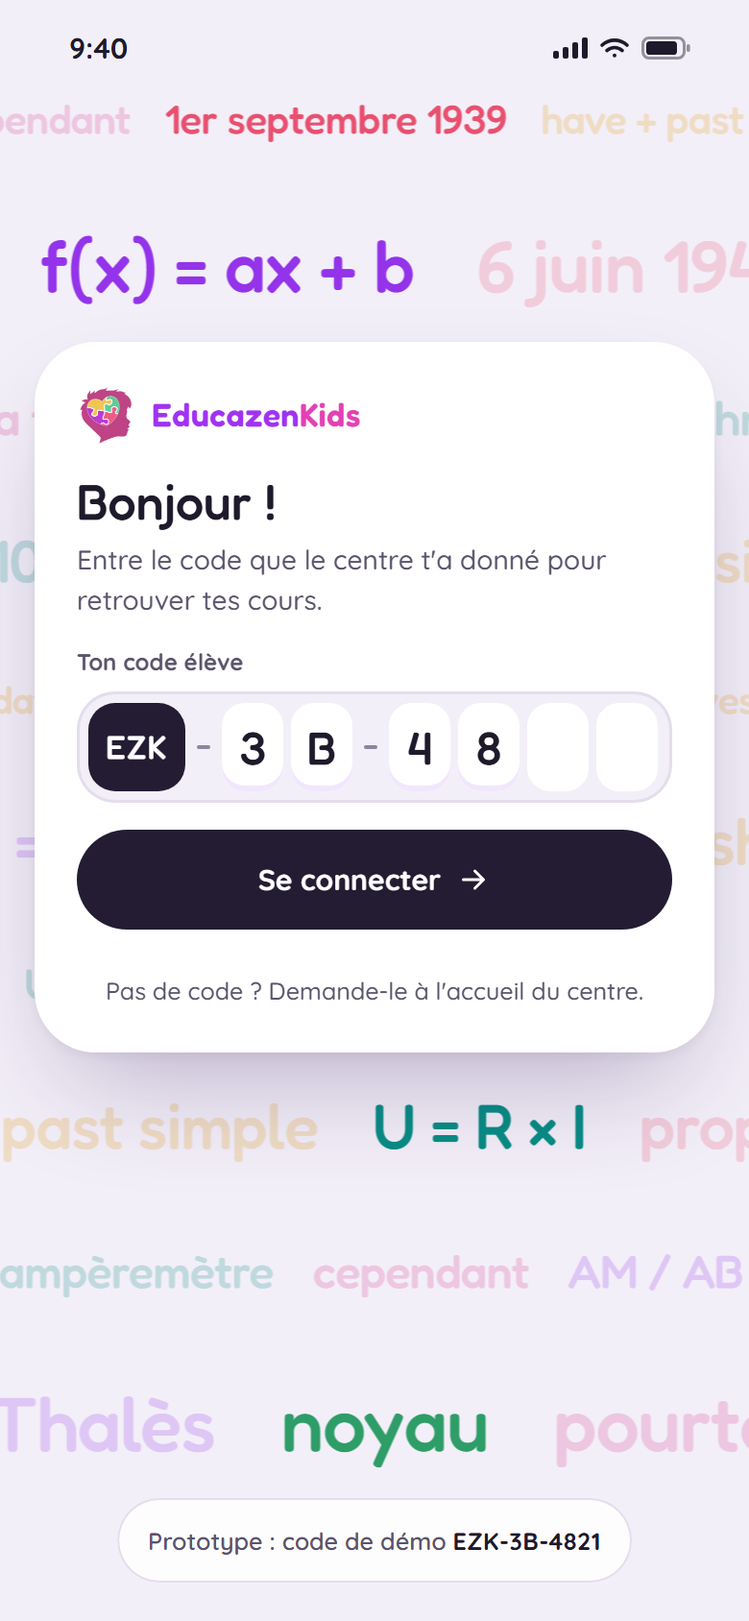
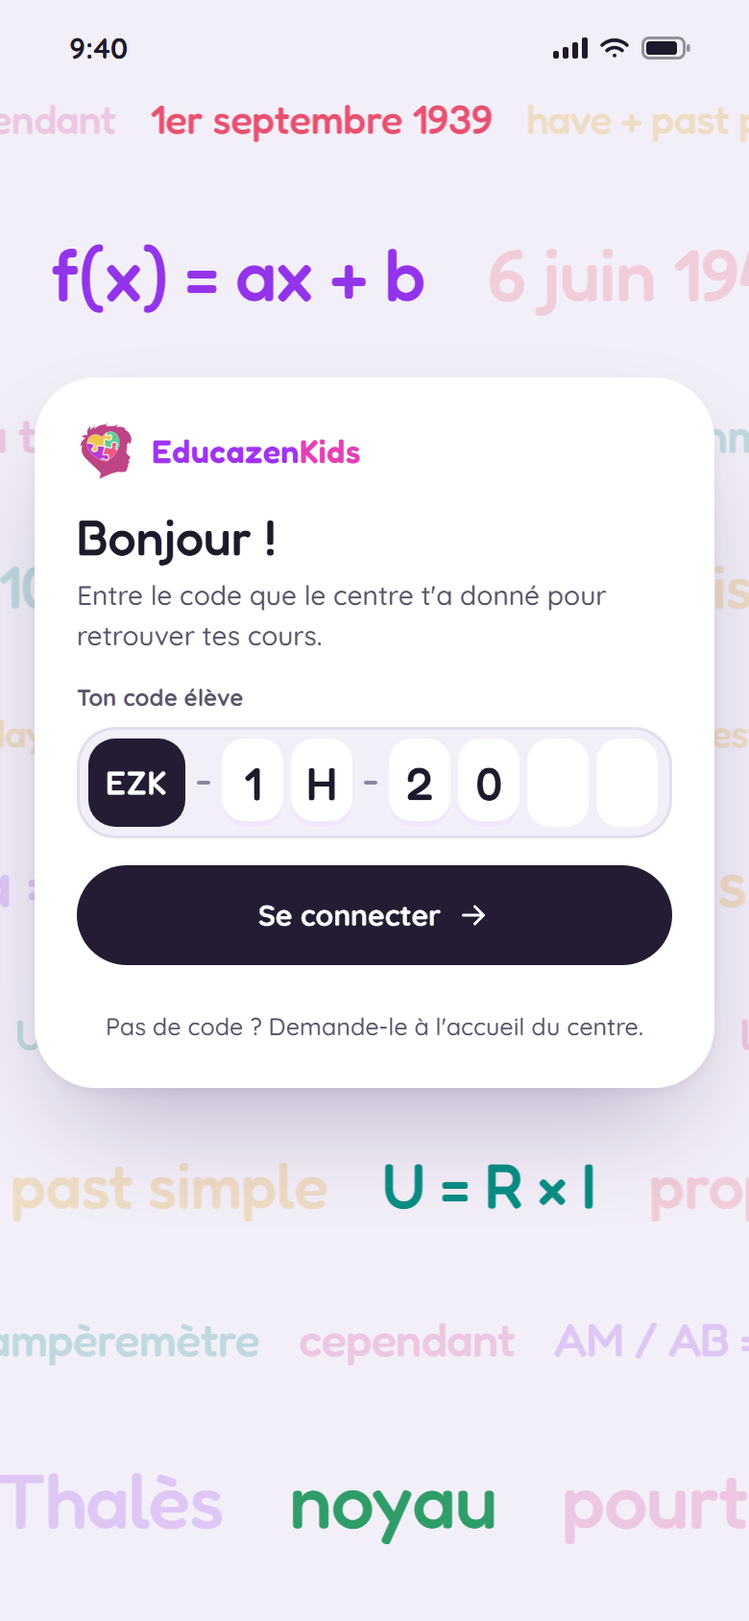
Hide the demo student code and change it
- Login: the demo-code button is gone and the guide no longer shows the code; the code changed (it lives in CODES in prototype/src/data.js)
- The card re-centred between two rows of the formula wall; the format error no longer quotes a real code
- Tests and docs updated; the old code is now refused

diff --git a/prototype/educazenkids-college.html b/prototype/educazenkids-college.html
@@ -454,7 +454,7 @@ a.btn { color: var(--ink); text-decoration: none; }
 
 /* ---------- connexion: le mur des cours ---------- */
 .login { position: absolute; inset: 0; background: var(--app); overflow: hidden; }
-.wall { position: absolute; inset: 0; display: grid; align-content: space-between; padding: 50px 0 80px; pointer-events: none; user-select: none; }
+.wall { position: absolute; inset: 0; display: grid; align-content: space-between; padding: 50px 0 40px; pointer-events: none; user-select: none; }
 .wrow { overflow: hidden; white-space: nowrap; font: 500 var(--fs)/1.15 var(--font-display); letter-spacing: -0.01em; }
 .wtrack { display: inline-flex; animation: drift var(--dur) linear infinite; }
 .wrow.rev .wtrack { animation-direction: reverse; }
@@ -464,7 +464,7 @@ a.btn { color: var(--ink); text-decoration: none; }
 .wall.ok .w { color: var(--c); transition-delay: calc(var(--i) * 9ms); }
 @keyframes lit { 0% { transform: scale(0.94); } 55% { transform: scale(1.06); } 100% { transform: none; } }
 .login-card {
-  position: absolute; left: 18px; right: 18px; top: 21.1%; z-index: 2;
+  position: absolute; left: 18px; right: 18px; top: 23.3%; z-index: 2;
   display: grid; gap: 14px; padding: 22px 22px 14px; border-radius: 32px; background: var(--surface);
   box-shadow: 0 2px 6px rgba(36, 28, 51, 0.05), 0 28px 60px -18px rgba(54, 27, 94, 0.32);
 }
@@ -493,9 +493,6 @@ a.btn { color: var(--ink); text-decoration: none; }
 .login-card.done .avatar { width: 64px; height: 64px; font-size: 22px; }
 .login-card.done p { margin: 0; color: var(--ink-2); }
 .login-card.done .saved { margin-top: 6px; }
-.login-demo { position: absolute; left: 50%; bottom: 20px; transform: translateX(-50%); z-index: 2; white-space: nowrap; min-height: 44px; padding: 0 16px; border-radius: 999px; background: rgba(255, 255, 255, 0.86); box-shadow: inset 0 0 0 1px var(--line); font-size: 12.5px; font-weight: 600; color: var(--ink-2); }
-.login-demo b { color: var(--ink); font-weight: 700; letter-spacing: 0.02em; }
-.login-demo:hover { box-shadow: inset 0 0 0 1.5px var(--brand); }
 
 /* ---------- exercises ---------- */
 .fig { margin: 16px 0 0; padding: 14px 14px 10px; border-radius: 22px; background: var(--surface); box-shadow: inset 0 0 0 1.5px var(--cs); display: grid; gap: 8px; }
@@ -583,7 +580,7 @@ textarea.xin[readonly] { min-height: 0; }
     <p>Prototype cliquable pour les 14 à 16 ans : cours en vidéo, résumés, quiz, exercices, contrôle continu, notifications et emploi du temps. Les données sont des exemples. Ta progression reste enregistrée dans ce navigateur.</p>
     <span class="label">À essayer</span>
     <ol>
-      <li>Connecte-toi avec le code <b>EZK-3B-4821</b> : chaque caractère allume une formule du mur.</li>
+      <li>Connecte-toi avec ton <b>code élève</b> : chaque caractère allume une formule du mur.</li>
       <li>Ouvre <b>Fonctions affines</b> et lance la vidéo en vitesse <b>Démo ×10</b>.</li>
       <li>À <b>50 % vus</b>, le bouton de progression débloque le <b>quiz</b>. Les passages sautés ne comptent pas.</li>
       <li>Termine le quiz : la <b>progression est enregistrée</b>.</li>
@@ -1076,7 +1073,7 @@ EXERCISES.forEach(x => { if (x.step) LMAP[x.lesson].exo = x.id; });
 
 /* Student codes the centre hands out: EZK- + class + 4 digits. One sample student in this prototype. */
 const CODE_PREFIX = 'EZK';
-const CODES = { '3B4821': STUDENT };
+const CODES = { '1H2002': STUDENT };
 
 const WEEK = [
   { date: '2026-10-12', dw: 'Lun', d: 12, long: 'Lundi 12 octobre' },
@@ -1367,7 +1364,7 @@ function wallHTML(lit, all) {
 const LOGIN_HELP = '<p class="login-help">Pas de code ? Demande-le à l\'accueil du centre.</p>';
 const LOGIN_ERR = {
   short: 'Ton code a 6 caractères après EZK : ta classe, puis 4 chiffres.',
-  format: "Ce code n'a pas le bon format. Il ressemble à EZK-3B-4821.",
+  format: "Ce code n'a pas le bon format : ta classe (un chiffre, une lettre), puis 4 chiffres.",
   unknown: "Ce code ne correspond à aucun élève. Vérifie-le, ou demande ton code à l'accueil.",
 };
 const cleanCode = s => { let v = String(s).toUpperCase().replace(/[^A-Z0-9]/g, ''); if (v.startsWith(CODE_PREFIX) && v.length > 6) v = v.slice(CODE_PREFIX.length); return v.slice(0, 6); };
@@ -1390,8 +1387,7 @@ SCREENS.splash = c => {
         <button class="btn btn-dark block" type="submit">Se connecter ${ic('arrow', 18)}</button>
         <div class="login-slot" id="login-slot">${lg.err ? `<p class="login-msg" role="alert">${esc(LOGIN_ERR[lg.err])}</p>` : LOGIN_HELP}</div>
       </form>`;
-  return `<div class="login">${wallHTML(lg.err ? 0 : lg.v.length, !!who)}${card}
-    ${who ? '' : `<button class="login-demo" data-act="loginDemo">Prototype : code de démo <b>EZK-3B-4821</b></button>`}</div>`;
+  return `<div class="login">${wallHTML(lg.err ? 0 : lg.v.length, !!who)}${card}</div>`;
 };
 function paintLogin() {
   const v = S.login.v;
@@ -1404,10 +1400,8 @@ function paintLogin() {
     const inp = $('#login-code'); if (inp) inp.removeAttribute('aria-invalid');
   }
 }
-let loginTimer = 0;
 function loginSubmit() {
   const v = S.login.v;
-  clearInterval(loginTimer);
   S.login.err = v.length < 6 ? 'short' : !/^[0-9][A-Z][0-9]{4}$/.test(v) ? 'format' : !CODES[v] ? 'unknown' : '';
   if (S.login.err) { S.focus = 'login-code'; render(); return; }
   S.login.ok = true;
@@ -2475,19 +2469,6 @@ const ACTIONS = {
   resetDemo: () => { pauseVideo(); timerStop(); stopExamTimer(); P = seed(); save(); V.id = null; V.w = null; V.rate = 1; T.mode = 'focus'; T.total = T.left = 1500; T.cycle = 1; const sc = S.screen === 'splash' ? 'home' : S.screen; S = S0(); S.screen = sc === 'quiz' || sc === 'lesson' || sc === 'exo' ? 'home' : sc; render(true); toast('Démo réinitialisée.'); },
   copy: d => { const done = () => toast('Numéro copié.'); try { navigator.clipboard.writeText(d.text).then(done, () => toast('Sélectionne le numéro pour le copier.')); } catch (e) { toast('Sélectionne le numéro pour le copier.'); } },
   gallery: d => showGallery(d.on === '1'),
-  loginDemo: () => {
-    clearInterval(loginTimer);
-    const code = Object.keys(CODES)[0];
-    const still = P.settings.calm || (typeof matchMedia === 'function' && matchMedia('(prefers-reduced-motion: reduce)').matches);
-    if (still || !$('#login-code')) { S.login.v = code; loginSubmit(); return; }
-    let i = 0;
-    loginTimer = setInterval(() => {
-      i++; S.login.v = code.slice(0, i);
-      const inp = $('#login-code'); if (inp) inp.value = S.login.v;
-      paintLogin();
-      if (i >= code.length) { clearInterval(loginTimer); setTimeout(loginSubmit, 380); }
-    }, 170);
-  },
   logout: () => { pauseVideo(); timerStop(); stopExamTimer(); P.signedIn = false; save(); S = S0(); render(true); toast('Tu es déconnecté. Ton code te permet de revenir.'); },
   exoStart: d => startExo(d.id),
   exoRetry: () => startExo(S.exo.id, true),
@@ -2579,7 +2560,7 @@ document.addEventListener('scroll', e => {
 }, true);
 document.addEventListener('input', e => {
   if (e.target.id === 'fiche-q') { S.ficheQ = e.target.value; const l = $('#fiche-list'); if (l) l.innerHTML = ficheList(S.ficheQ); }
-  if (e.target.id === 'login-code') { clearInterval(loginTimer); const v = cleanCode(e.target.value); if (e.target.value !== v) e.target.value = v; S.login.v = v; paintLogin(); }
+  if (e.target.id === 'login-code') { const v = cleanCode(e.target.value); if (e.target.value !== v) e.target.value = v; S.login.v = v; paintLogin(); }
   if (e.target.dataset && e.target.dataset.exq != null && S.exo) S.exo.ans[+e.target.dataset.exq].v = e.target.value;
 });
 
@@ -2606,9 +2587,9 @@ const GALLERY = [
   ['Minuteur', { screen: 'timer' }],
   ['Paramètres', { screen: 'settings' }],
   ['Contacter le centre', { screen: 'contact' }],
-  ['Connexion · saisie du code', { screen: 'splash', login: { v: '3B48', err: '', ok: false } }],
-  ['Connexion · code inconnu', { screen: 'splash', login: { v: '3B4812', err: 'unknown', ok: false } }],
-  ['Connexion · code reconnu', { screen: 'splash', login: { v: '3B4821', err: '', ok: true } }],
+  ['Connexion · saisie du code', { screen: 'splash', login: { v: '1H20', err: '', ok: false } }],
+  ['Connexion · code inconnu', { screen: 'splash', login: { v: '1H2020', err: 'unknown', ok: false } }],
+  ['Connexion · code reconnu', { screen: 'splash', login: { v: '1H2002', err: '', ok: true } }],
   ['Leçon · onglet Exercice', { screen: 'lesson', lessonId: 'affine', tab: 'exo' }],
   ['Exercice avec image', { screen: 'exo', exo: { id: 'ex-affine', done: false, ans: [{ v: '−1', st: 'ok', tries: 0 }, { v: '4', st: 'retry', tries: 1 }, { v: '', st: '', tries: 0 }] } }],
   ['Exercice · corrigé à comparer', { screen: 'exo', exo: { id: 'ex-produit-nul', done: false, ans: [{ v: 'x = −2 ou x = 2', st: 'shown', tries: 0 }, { v: '', st: '', tries: 0 }] } }],

diff --git a/prototype/src/app.js b/prototype/src/app.js
@@ -208,7 +208,7 @@ function wallHTML(lit, all) {
 const LOGIN_HELP = '<p class="login-help">Pas de code ? Demande-le à l\'accueil du centre.</p>';
 const LOGIN_ERR = {
   short: 'Ton code a 6 caractères après EZK : ta classe, puis 4 chiffres.',
-  format: "Ce code n'a pas le bon format. Il ressemble à EZK-3B-4821.",
+  format: "Ce code n'a pas le bon format : ta classe (un chiffre, une lettre), puis 4 chiffres.",
   unknown: "Ce code ne correspond à aucun élève. Vérifie-le, ou demande ton code à l'accueil.",
 };
 const cleanCode = s => { let v = String(s).toUpperCase().replace(/[^A-Z0-9]/g, ''); if (v.startsWith(CODE_PREFIX) && v.length > 6) v = v.slice(CODE_PREFIX.length); return v.slice(0, 6); };
@@ -231,8 +231,7 @@ SCREENS.splash = c => {
         <button class="btn btn-dark block" type="submit">Se connecter ${ic('arrow', 18)}</button>
         <div class="login-slot" id="login-slot">${lg.err ? `<p class="login-msg" role="alert">${esc(LOGIN_ERR[lg.err])}</p>` : LOGIN_HELP}</div>
       </form>`;
-  return `<div class="login">${wallHTML(lg.err ? 0 : lg.v.length, !!who)}${card}
-    ${who ? '' : `<button class="login-demo" data-act="loginDemo">Prototype : code de démo <b>EZK-3B-4821</b></button>`}</div>`;
+  return `<div class="login">${wallHTML(lg.err ? 0 : lg.v.length, !!who)}${card}</div>`;
 };
 function paintLogin() {
   const v = S.login.v;
@@ -245,10 +244,8 @@ function paintLogin() {
     const inp = $('#login-code'); if (inp) inp.removeAttribute('aria-invalid');
   }
 }
-let loginTimer = 0;
 function loginSubmit() {
   const v = S.login.v;
-  clearInterval(loginTimer);
   S.login.err = v.length < 6 ? 'short' : !/^[0-9][A-Z][0-9]{4}$/.test(v) ? 'format' : !CODES[v] ? 'unknown' : '';
   if (S.login.err) { S.focus = 'login-code'; render(); return; }
   S.login.ok = true;
@@ -1316,19 +1313,6 @@ const ACTIONS = {
   resetDemo: () => { pauseVideo(); timerStop(); stopExamTimer(); P = seed(); save(); V.id = null; V.w = null; V.rate = 1; T.mode = 'focus'; T.total = T.left = 1500; T.cycle = 1; const sc = S.screen === 'splash' ? 'home' : S.screen; S = S0(); S.screen = sc === 'quiz' || sc === 'lesson' || sc === 'exo' ? 'home' : sc; render(true); toast('Démo réinitialisée.'); },
   copy: d => { const done = () => toast('Numéro copié.'); try { navigator.clipboard.writeText(d.text).then(done, () => toast('Sélectionne le numéro pour le copier.')); } catch (e) { toast('Sélectionne le numéro pour le copier.'); } },
   gallery: d => showGallery(d.on === '1'),
-  loginDemo: () => {
-    clearInterval(loginTimer);
-    const code = Object.keys(CODES)[0];
-    const still = P.settings.calm || (typeof matchMedia === 'function' && matchMedia('(prefers-reduced-motion: reduce)').matches);
-    if (still || !$('#login-code')) { S.login.v = code; loginSubmit(); return; }
-    let i = 0;
-    loginTimer = setInterval(() => {
-      i++; S.login.v = code.slice(0, i);
-      const inp = $('#login-code'); if (inp) inp.value = S.login.v;
-      paintLogin();
-      if (i >= code.length) { clearInterval(loginTimer); setTimeout(loginSubmit, 380); }
-    }, 170);
-  },
   logout: () => { pauseVideo(); timerStop(); stopExamTimer(); P.signedIn = false; save(); S = S0(); render(true); toast('Tu es déconnecté. Ton code te permet de revenir.'); },
   exoStart: d => startExo(d.id),
   exoRetry: () => startExo(S.exo.id, true),
@@ -1420,7 +1404,7 @@ document.addEventListener('scroll', e => {
 }, true);
 document.addEventListener('input', e => {
   if (e.target.id === 'fiche-q') { S.ficheQ = e.target.value; const l = $('#fiche-list'); if (l) l.innerHTML = ficheList(S.ficheQ); }
-  if (e.target.id === 'login-code') { clearInterval(loginTimer); const v = cleanCode(e.target.value); if (e.target.value !== v) e.target.value = v; S.login.v = v; paintLogin(); }
+  if (e.target.id === 'login-code') { const v = cleanCode(e.target.value); if (e.target.value !== v) e.target.value = v; S.login.v = v; paintLogin(); }
   if (e.target.dataset && e.target.dataset.exq != null && S.exo) S.exo.ans[+e.target.dataset.exq].v = e.target.value;
 });
 
@@ -1447,9 +1431,9 @@ const GALLERY = [
   ['Minuteur', { screen: 'timer' }],
   ['Paramètres', { screen: 'settings' }],
   ['Contacter le centre', { screen: 'contact' }],
-  ['Connexion · saisie du code', { screen: 'splash', login: { v: '3B48', err: '', ok: false } }],
-  ['Connexion · code inconnu', { screen: 'splash', login: { v: '3B4812', err: 'unknown', ok: false } }],
-  ['Connexion · code reconnu', { screen: 'splash', login: { v: '3B4821', err: '', ok: true } }],
+  ['Connexion · saisie du code', { screen: 'splash', login: { v: '1H20', err: '', ok: false } }],
+  ['Connexion · code inconnu', { screen: 'splash', login: { v: '1H2020', err: 'unknown', ok: false } }],
+  ['Connexion · code reconnu', { screen: 'splash', login: { v: '1H2002', err: '', ok: true } }],
   ['Leçon · onglet Exercice', { screen: 'lesson', lessonId: 'affine', tab: 'exo' }],
   ['Exercice avec image', { screen: 'exo', exo: { id: 'ex-affine', done: false, ans: [{ v: '−1', st: 'ok', tries: 0 }, { v: '4', st: 'retry', tries: 1 }, { v: '', st: '', tries: 0 }] } }],
   ['Exercice · corrigé à comparer', { screen: 'exo', exo: { id: 'ex-produit-nul', done: false, ans: [{ v: 'x = −2 ou x = 2', st: 'shown', tries: 0 }, { v: '', st: '', tries: 0 }] } }],

diff --git a/prototype/src/app.css b/prototype/src/app.css
@@ -442,7 +442,7 @@ a.btn { color: var(--ink); text-decoration: none; }
 
 /* ---------- connexion: le mur des cours ---------- */
 .login { position: absolute; inset: 0; background: var(--app); overflow: hidden; }
-.wall { position: absolute; inset: 0; display: grid; align-content: space-between; padding: 50px 0 80px; pointer-events: none; user-select: none; }
+.wall { position: absolute; inset: 0; display: grid; align-content: space-between; padding: 50px 0 40px; pointer-events: none; user-select: none; }
 .wrow { overflow: hidden; white-space: nowrap; font: 500 var(--fs)/1.15 var(--font-display); letter-spacing: -0.01em; }
 .wtrack { display: inline-flex; animation: drift var(--dur) linear infinite; }
 .wrow.rev .wtrack { animation-direction: reverse; }
@@ -452,7 +452,7 @@ a.btn { color: var(--ink); text-decoration: none; }
 .wall.ok .w { color: var(--c); transition-delay: calc(var(--i) * 9ms); }
 @keyframes lit { 0% { transform: scale(0.94); } 55% { transform: scale(1.06); } 100% { transform: none; } }
 .login-card {
-  position: absolute; left: 18px; right: 18px; top: 21.1%; z-index: 2;
+  position: absolute; left: 18px; right: 18px; top: 23.3%; z-index: 2;
   display: grid; gap: 14px; padding: 22px 22px 14px; border-radius: 32px; background: var(--surface);
   box-shadow: 0 2px 6px rgba(36, 28, 51, 0.05), 0 28px 60px -18px rgba(54, 27, 94, 0.32);
 }
@@ -481,9 +481,6 @@ a.btn { color: var(--ink); text-decoration: none; }
 .login-card.done .avatar { width: 64px; height: 64px; font-size: 22px; }
 .login-card.done p { margin: 0; color: var(--ink-2); }
 .login-card.done .saved { margin-top: 6px; }
-.login-demo { position: absolute; left: 50%; bottom: 20px; transform: translateX(-50%); z-index: 2; white-space: nowrap; min-height: 44px; padding: 0 16px; border-radius: 999px; background: rgba(255, 255, 255, 0.86); box-shadow: inset 0 0 0 1px var(--line); font-size: 12.5px; font-weight: 600; color: var(--ink-2); }
-.login-demo b { color: var(--ink); font-weight: 700; letter-spacing: 0.02em; }
-.login-demo:hover { box-shadow: inset 0 0 0 1.5px var(--brand); }
 
 /* ---------- exercises ---------- */
 .fig { margin: 16px 0 0; padding: 14px 14px 10px; border-radius: 22px; background: var(--surface); box-shadow: inset 0 0 0 1.5px var(--cs); display: grid; gap: 8px; }

diff --git a/prototype/src/test.js b/prototype/src/test.js
@@ -93,9 +93,9 @@ ok(t.progressOf(L) === 75, `lesson progress with the exercise done = ${t.progres
 ok(t.progressOf(t.LMAP.thales) === 100, 'Thalès stays 100 % (its exercise is done in the sample data)');
 // 8. connexion with the student code
 const tryCode = v => { t.S().screen = 'splash'; t.S().login = { v, err: '', ok: false }; t.loginSubmit(); return t.S().login; };
-ok(tryCode('3B48').err === 'short' && tryCode('ABCDEF').err === 'format' && tryCode('3B4812').err === 'unknown', 'short, malformed and unknown codes are refused with their own message');
-ok(t.cleanCode('ezk-3b-4821') === '3B4821' && t.cleanCode('3b 48 21') === '3B4821', 'a pasted code is tidied (prefix, case, spaces)');
-const signed = tryCode('3B4821');
+ok(tryCode('1H20').err === 'short' && tryCode('ABCDEF').err === 'format' && tryCode('1H2020').err === 'unknown' && tryCode('3B4821').err === 'unknown', 'short, malformed and unknown codes (the old demo code included) are refused with their own message');
+ok(t.cleanCode('ezk-1h-2002') === '1H2002' && t.cleanCode('1h 20 02') === '1H2002', 'a pasted code is tidied (prefix, case, spaces)');
+const signed = tryCode('1H2002');
 ok(signed.ok === true && !signed.err && JSON.parse(Object.values(store).pop()).signedIn === true, 'the demo code signs Yanis in and the phone remembers it');
 console.log(fails ? `${fails} FAILED` : 'ALL PASSED');
 process.exit(fails ? 1 : 0);

diff --git a/prototype/src/page.html b/prototype/src/page.html
@@ -12,7 +12,7 @@
     <p>Prototype cliquable pour les 14 à 16 ans : cours en vidéo, résumés, quiz, exercices, contrôle continu, notifications et emploi du temps. Les données sont des exemples. Ta progression reste enregistrée dans ce navigateur.</p>
     <span class="label">À essayer</span>
     <ol>
-      <li>Connecte-toi avec le code <b>EZK-3B-4821</b> : chaque caractère allume une formule du mur.</li>
+      <li>Connecte-toi avec ton <b>code élève</b> : chaque caractère allume une formule du mur.</li>
       <li>Ouvre <b>Fonctions affines</b> et lance la vidéo en vitesse <b>Démo ×10</b>.</li>
       <li>À <b>50 % vus</b>, le bouton de progression débloque le <b>quiz</b>. Les passages sautés ne comptent pas.</li>
       <li>Termine le quiz : la <b>progression est enregistrée</b>.</li>

diff --git a/prototype/src/data.js b/prototype/src/data.js
@@ -372,7 +372,7 @@ EXERCISES.forEach(x => { if (x.step) LMAP[x.lesson].exo = x.id; });
 
 /* Student codes the centre hands out: EZK- + class + 4 digits. One sample student in this prototype. */
 const CODE_PREFIX = 'EZK';
-const CODES = { '3B4821': STUDENT };
+const CODES = { '1H2002': STUDENT };
 
 const WEEK = [
   { date: '2026-10-12', dw: 'Lun', d: 12, long: 'Lundi 12 octobre' },

diff --git a/docs/app-design-system.md b/docs/app-design-system.md
@@ -94,9 +94,8 @@ All of these come from the logo and website palette. Use the color for bars, dot
 | Stacked chart | `svg.chart` | Minutes per day stacked by subject |
 | Toast | `.toast` | Top of the phone, dark |
 | Login wall | `.login`, `.wall`, `.wrow`, `.w` | « Le mur des cours »: 10 rows of the year's formulas and dates in Fredoka (20 to 40 px), each in its subject color mixed 22 % into `--app`, drifting in alternating directions (130 to 170 s a loop). `.w.lit` takes the full subject color; `.wall.ok` lights every entry. The drift stops in calm mode, with reduced motion and while the code field has focus |
-| Login card | `.login-card` | White, 32 px radius, soft offset shadow, no hairline; placed between two rows of the wall (top 21.1 %). The line under « Se connecter » (`.login-slot`) holds the help text at rest and the error in its place, at a fixed height, so the card never grows; `.done` keeps the same height for the greeting |
+| Login card | `.login-card` | White, 32 px radius, soft offset shadow, no hairline; placed between two rows of the wall (top 23.3 %). The line under « Se connecter » (`.login-slot`) holds the help text at rest and the error in its place, at a fixed height, so the card never grows; `.done` keeps the same height for the greeting |
 | Code field | `.codebox`, `.cell` | A fixed plum-ink « EZK » chip, then 2 + 4 cells (32×46, Fredoka 24) over one transparent input; focus draws the violet ring and a caret in the next cell; `.bad` is the coral ring |
-| Demo hint | `.login-demo` | Frosted pill at the bottom of the login (prototype only) |
 | Exercise figure | `.fig`, `.fig-thumb`, `.xthumb` | The teacher's image, drawn as SVG by `prototype/web/assets/figures.js` (shared with the dashboard): ink `#1F1A2B`, labels `#5B536B`, grid `#ECE6F3`, the subject color for the line or marks. `.fig` is a white panel ringed in the subject tint with « Image postée par … » and « Agrandir »; `.fig-thumb` is borderless inside the Exercice tab; `.xthumb` is the 58 px square in lists |
 | Exercise question | `.xq` | White card: numbered square (`.xn`, subject tint; teal when right, gold when à revoir), the question, the answer field `.xin` (46 px, or a textarea that grows with its text), « Vérifier » |
 | Answer feedback | `.xmsg`, `.xcorr`, `.xself` | `.xmsg` coral wash for a second try; `.xcorr` lavender corrigé, `.ok` teal wash, `.review` gold wash with the expected answer; `.xself` two equal ghost buttons « J'ai réussi » / « À revoir », colored only after the tap |

diff --git a/.impeccable/surfaces/prototype-educazenkids-college-html.md b/.impeccable/surfaces/prototype-educazenkids-college-html.md
@@ -10,7 +10,7 @@ Scope: the collège student app prototype (`prototype/educazenkids-college.html`
 Audience: collège students, 14 to 16, typique, DYS, TDAH, TSA and HPI.
 Job: sign in with the personal code the centre gives each student (code only; the phone remembers them).
 States: empty, typing, invalid format, unknown code, signed in.
-Constraints: no backend (sample code EZK-3B-4821 for Yanis B.), French, « tu », no emoji, calm mode and reduced motion freeze the drift, touch targets of 44 px or more.
+Constraints: no backend (one sample code for Yanis B., in `CODES`; owner 12/10: never shown on screen), French, « tu », no emoji, calm mode and reduced motion freeze the drift, touch targets of 44 px or more.
 
 Also added 12/10 as extensions of the incumbent world (no new identity): an Exercice tab in lessons (an image posted by the teacher or questions, short answers auto-checked, longer ones corrigé + self-check, counted as a 4th lesson step) and an Exercices section in Outils, filtered by subject.
 
@@ -25,7 +25,7 @@ OWN-WORLD: The app's lavender world. Rows of Fredoka formulas and dates (f(x) = 
 
 STORY: The student opens the app, recognises their subjects on the wall, and types the code from the centre. Each character lights one formula in its colour. A valid code lights the whole wall and greets them by name; an unknown code says what to do next.
 
-FIRST VIEWPORT: Formula rows edge to edge above and below. A centred white card at about 40 % height: logo, « Bonjour ! », one line, the code field (EZK · 3B · 4821 shape), « Se connecter », « Pas de code ? Demande-le à l'accueil ». A demo hint under the card.
+FIRST VIEWPORT: Formula rows edge to edge above and below. A centred white card at about 40 % height: logo, « Bonjour ! », one line, the code field (EZK · 3B · 4821 shape), « Se connecter », « Pas de code ? Demande-le à l'accueil ». No demo hint: the owner hands the code out (12/10).
 
 FORM: Le mur des cours, position 1 of 7 on the ranked surface list, seed key df5ed065. Signature interaction: typed characters light formulas; a valid code lights the wall, then « Bonjour Yanis ».
 

diff --git a/docs/product-spec-college.md b/docs/product-spec-college.md
@@ -6,10 +6,10 @@ The student app for collège (14 to 16, 3e, CNED programme at EducazenKids Agadi
 
 Decided 12/10/2026: students sign in with a **personal code** the centre hands out, nothing else. The phone remembers them; « Se déconnecter » in Paramètres signs out.
 
-- **Code:** `EZK-` + class + 4 digits, e.g. EZK-3B-4821. The prefix is printed; the student types the 6 characters into cells. A pasted code (with or without « EZK- », any case, spaces) is tidied.
-- **Errors**, each with its own message: too short (« Ton code a 6 caractères après EZK… »), wrong shape (« Il ressemble à EZK-3B-4821 »), unknown code (« Vérifie-le, ou demande ton code à l'accueil »). On an error the lit formulas go back to their tint.
+- **Code:** `EZK-` + class (a digit and a letter) + 4 digits. The prefix is printed; the student types the 6 characters into cells. A pasted code (with or without « EZK- », any case, spaces) is tidied.
+- **Errors**, each with its own message: too short (« Ton code a 6 caractères après EZK… »), wrong shape (« ta classe (un chiffre, une lettre), puis 4 chiffres »), unknown code (« Vérifie-le, ou demande ton code à l'accueil »). On an error the lit formulas go back to their tint.
 - **Screen: « le mur des cours ».** The backdrop is the year's real content (f(x) = ax + b, U = R × I, 46 chromosomes, 1939-1945, have + past participle…) in pale subject tints, drifting slowly. Each typed character lights one formula in its subject colour; a valid code lights the whole wall and the card greets the student (« Bonjour Yanis ! », class, « Code reconnu »), then Home opens. The drift stops in calm mode, with reduced motion, and while the student types.
-- **Help:** « Pas de code ? Demande-le à l'accueil du centre. » The prototype adds a button that types the demo code.
+- **Help:** « Pas de code ? Demande-le à l'accueil du centre. » The demo code is not shown on screen or in the docs (owner, 12/10/2026): the owner hands it out.
 
 ## Navigation
 

diff --git a/CLAUDE.md b/CLAUDE.md
@@ -56,7 +56,7 @@ resources/
   - one brand color per subject, charts included
 - **Fonts:** Fredoka (display) and Quicksand (body), both from the website. Lexend is the reading-friendly option; Caveat handles handwriting on the families site.
 - **Language:** French. Use « tu » for students and « vous » for parents and staff. No emoji in the collège UI.
-- **Student app login:** a personal student code only (demo EZK-3B-4821), on « le mur des cours », the year's formulas lighting up as the code is typed (impeccable, 12/10/2026).
+- **Student app login:** a personal student code only (the demo code sits in `CODES` in `prototype/src/data.js`; the owner keeps it off the screen and out of the docs), on « le mur des cours », the year's formulas lighting up as the code is typed (impeccable, 12/10/2026).
 - **Student app navigation:** Cours · Emploi du temps · Outils (exercices, contrôle continu, notifications, progression, fiches, minuteur, paramètres, contact).
 - **Exercises (12/10/2026):** a lesson can carry an Exercice (an image posted by the teacher, or questions); short answers are auto-checked, written ones are self-marked against the corrigé; it is the lesson's 4th step. Teachers add it in the dashboard's lesson editor (« Ajouter un exercice »).
 - **Families site:** « carnet de liaison » world:

diff --git a/prototype/README.md b/prototype/README.md
@@ -42,7 +42,7 @@ All changes live in memory and reset on reload.
 
 ## Student app (`educazenkids-college.html`, source in `src/`)
 
-A single HTML file. It opens on the login (« le mur des cours »); the demo code is **EZK-3B-4821**, and the phone stays signed in until Paramètres → Se déconnecter. Progress (video seconds watched, quiz scores, exercise results, added timetable slots, settings, sign-in) is saved in the browser's `localStorage` under `ezk-college-proto-v1`. **Paramètres → Réinitialiser la démo** clears it.
+A single HTML file. It opens on the login (« le mur des cours »); the demo code is not shown anywhere on screen (owner, 12/10/2026; it is the key of `CODES` in `src/data.js`), and the phone stays signed in until Paramètres → Se déconnecter. Progress (video seconds watched, quiz scores, exercise results, added timetable slots, settings, sign-in) is saved in the browser's `localStorage` under `ezk-college-proto-v1`. **Paramètres → Réinitialiser la démo** clears it.
 
 | File | Role |
 |---|---|
